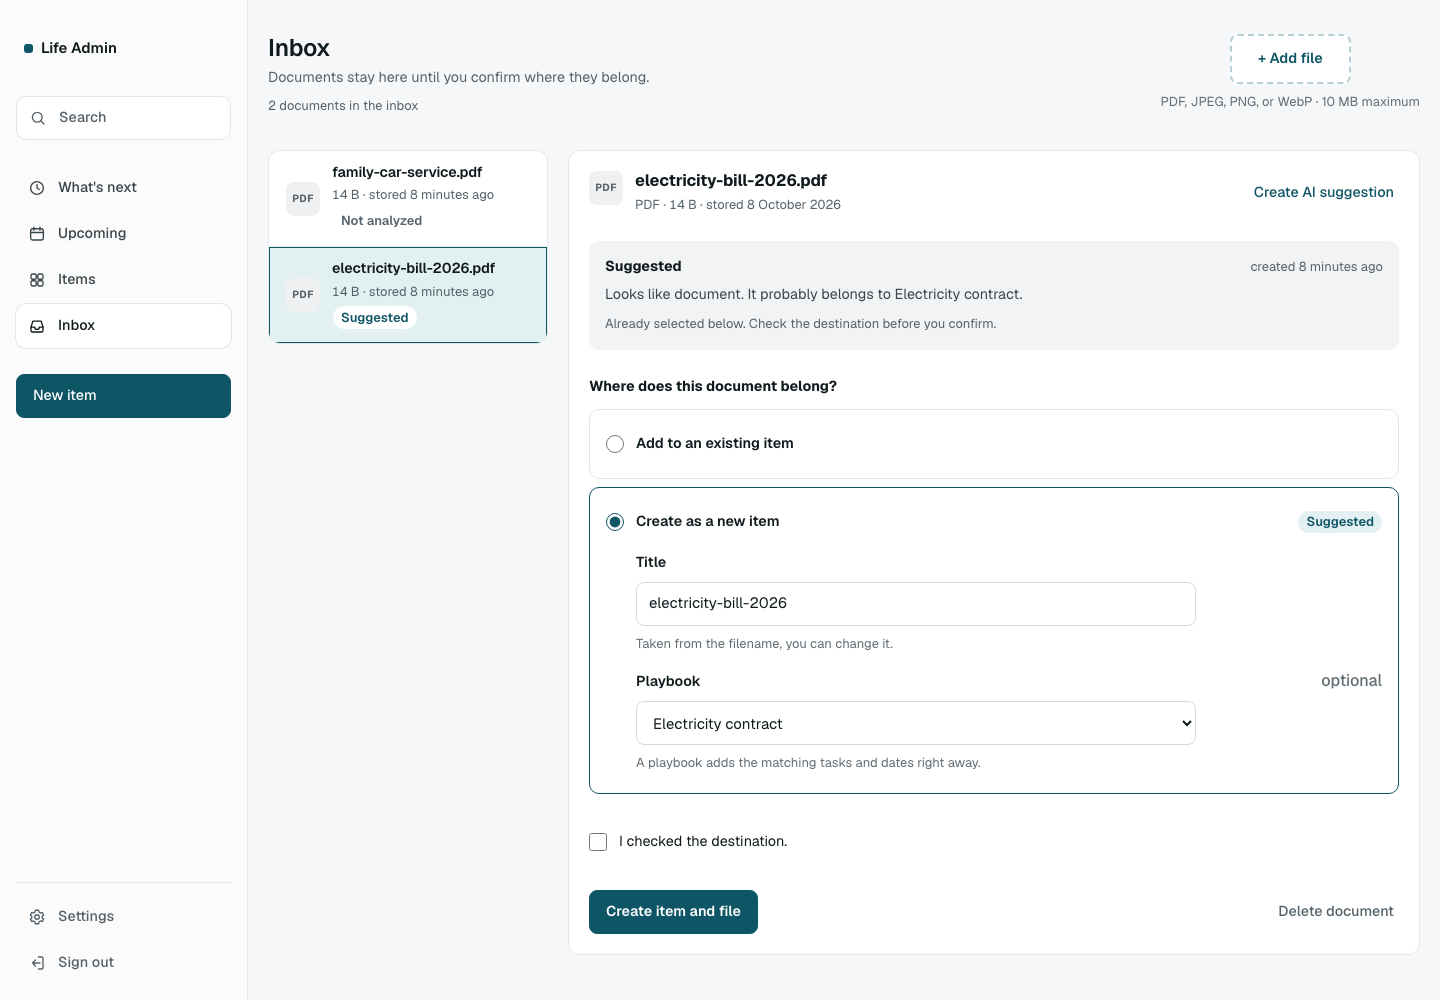
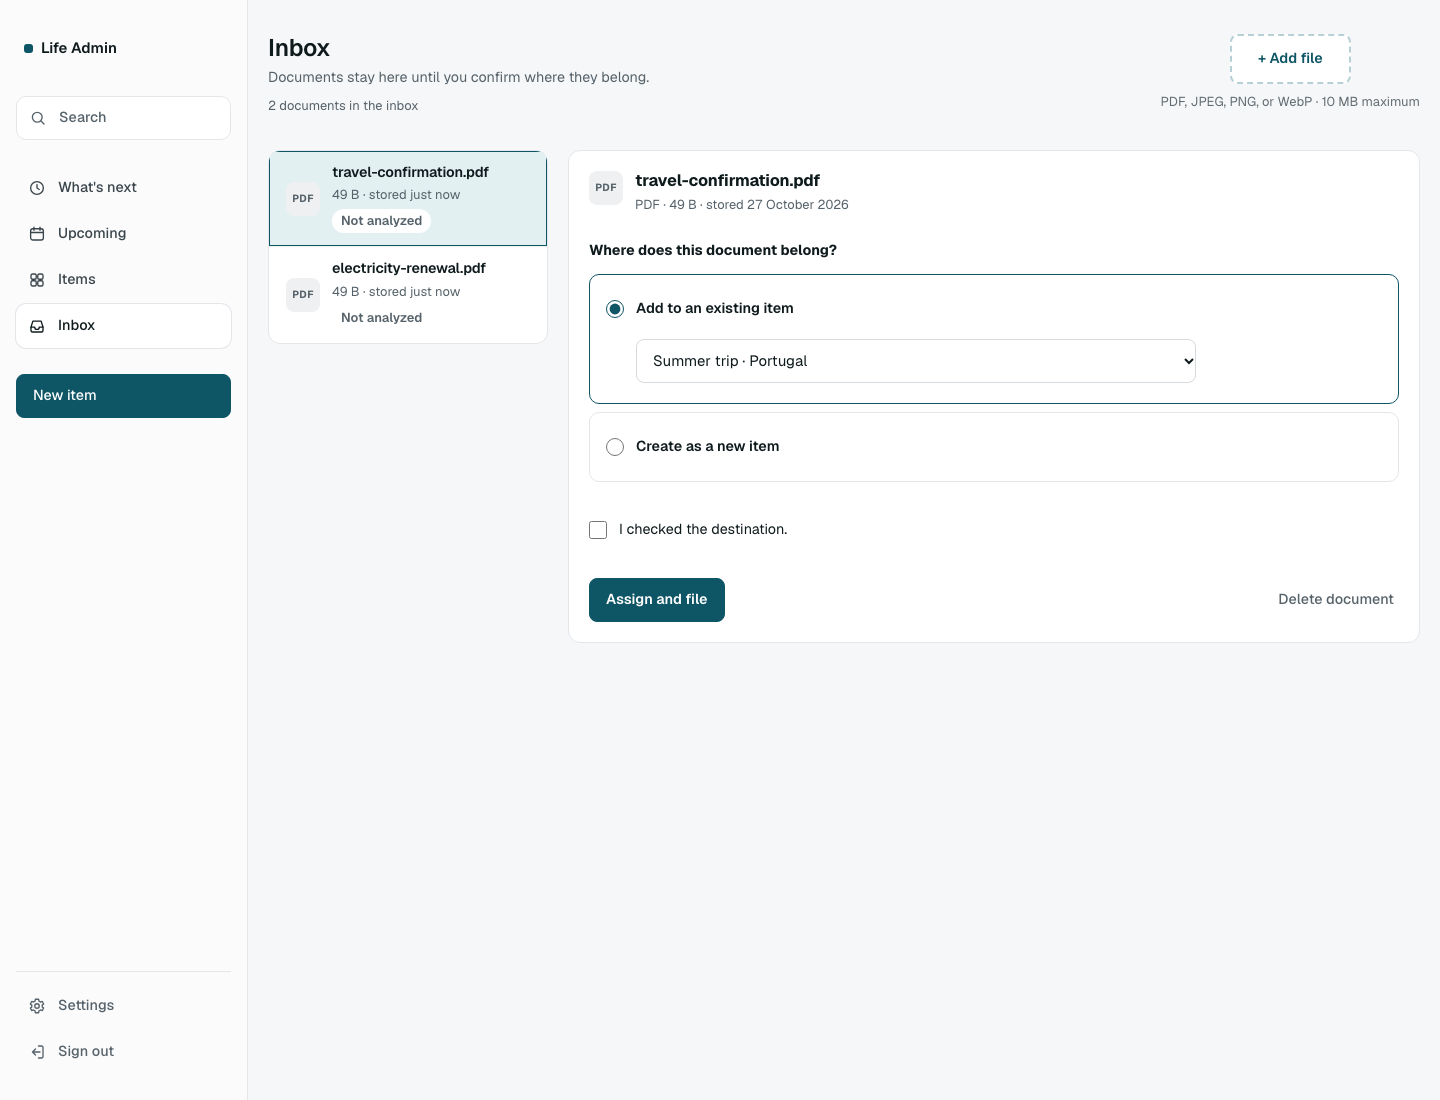
Update README screenshots and document GHCR quickstart

diff --git a/README.md b/README.md
@@ -13,8 +13,8 @@ for non-commercial use ([details below](#license)). **Contributing:** see
 
 ![What's next showing overdue, ready now, and later actions for sample items](screenshots/whats-next.png)
 ![What's next in dark mode with the same overdue, ready now, and later actions](screenshots/whats-next-dark.png)
-![Item detail showing the next action, workflow steps, and field values](screenshots/item-detail.png)
-![Inbox with an AI suggestion for the selected document and a second document in the list](screenshots/inbox.png)
+![Item detail showing the next action, workflow progress, grouped fields, documents, and history](screenshots/item-detail.png)
+![Inbox with two sample documents and destination selection for the selected document](screenshots/inbox.png)
 ![New item form with a title and a Playbook selected](screenshots/new-item.png)
 <img src="screenshots/mobile.png" width="300" alt="What's next on mobile with the header, first action rows, and tab bar">
 
@@ -36,16 +36,52 @@ All data shown is fictional test data, not a real booking or contract.
 
 ## Quickstart
 
+Choose a published image or build from source. Both options need Docker;
+the source option also needs Docker Compose and a checkout of this repository.
+
+### Run a published release
+
+Download a specific version from GitHub Container Registry (GHCR), then start it:
+
+```bash
+VERSION=0.2.0-beta.2
+docker pull ghcr.io/siegl13/life-admin:$VERSION
+docker run -d --name lifeadmin --restart unless-stopped \
+  -p 3000:3000 \
+  -e ORIGIN=http://localhost:3000 \
+  -e TZ=Europe/Berlin \
+  -e LIFEADMIN_DATA_DIR=/data \
+  -e BODY_SIZE_LIMIT=280M \
+  -v lifeadmin-data:/data \
+  ghcr.io/siegl13/life-admin:$VERSION
+```
+
+Replace `VERSION` with the version from the [GitHub Releases](https://github.com/siegl13/life-admin/releases)
+page. Beta releases use explicit version tags, not `latest`. Images support
+`linux/amd64` and `linux/arm64`.
+
+For the published `0.2.0-beta.2` image, set `ORIGIN` to the exact URL you
+use in your browser, including the scheme and port. For example, use
+`-e ORIGIN=http://192.168.1.20:3000` for LAN access. Otherwise, form submissions
+may fail with "Cross-site POST form submissions are forbidden."
+
+### Build from source with Docker Compose
+
+From the repository directory:
+
 ```bash
 docker compose up -d
 ```
 
-Requires Docker and Docker Compose. One container, port 3000, all data in
-a named volume. Open `http://localhost:3000` and create the Owner
+### First login
+
+Either option runs one container on port 3000 and keeps all data in a named
+volume. Use only one option at a time; their default volume names differ.
+Open `http://localhost:3000` and create the Owner
 account: the first person to reach the service claims it, so don't leave
 it open on a public network before that.
 
-The sample Compose file publishes port 3000 on all host interfaces. Keep
+Both examples publish port 3000 on all host interfaces. Keep
 that port behind a firewall on a trusted LAN. For access from the internet,
 use HTTPS through a reverse proxy and block direct access to port 3000.
 
@@ -253,7 +289,8 @@ backups, so re-enter them after restoring elsewhere.
 Download a ZIP backup from Settings: all your private data, including
 attachments, capped at 256 MiB compressed. Restore validates the archive
 and takes a safety copy first. Afterward, run
-`docker compose restart lifeadmin`.
+`docker compose restart lifeadmin` for Compose, or `docker restart lifeadmin`
+for the published-image example above.
 
 For a full volume copy, stop the service, run
 `docker cp lifeadmin:/data ./backup`, then start it again. Pre-restore
